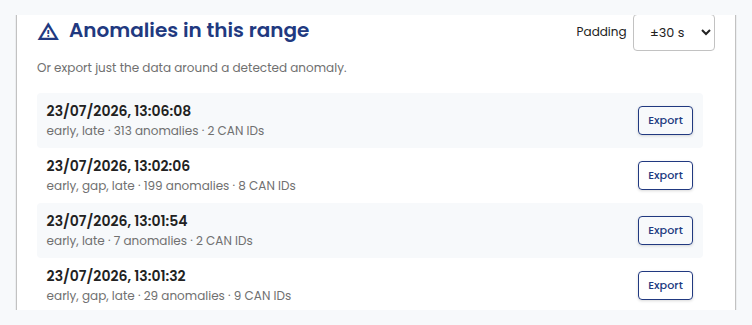
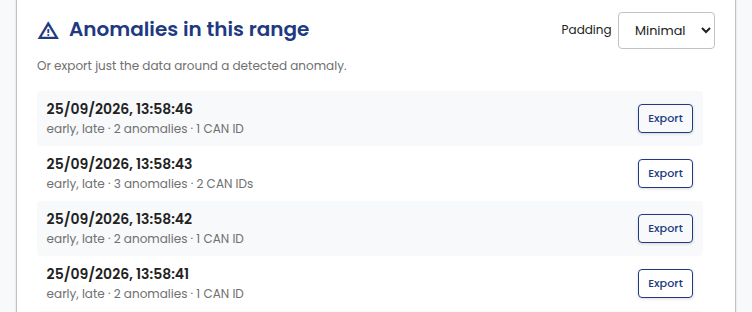
docs(portal): describe the Minimal default for anomaly exports
The anomaly list's Padding list has a new Minimal option, and it is the
default. The export then holds about three seconds of data around the
anomaly. The screenshot shows the new default.

Claude-Session: https://claude.ai/code/session_01KD3DZM4ZHsJgGoEvukU67b

diff --git a/docs/portal/export-log.md b/docs/portal/export-log.md
@@ -33,8 +33,11 @@ When it finishes, the downloaded file name appears below the button:
 
 Detected anomalies in the selected range are listed below the export
 controls, each with its own **Export** button. Use this to export just the
-data around a specific anomaly instead of the whole range. The padding
-before and after the anomaly is configurable.
+data around a specific anomaly instead of the whole range.
+
+By default, the **Padding** list is set to **Minimal**. The export then
+holds about three seconds of data around the anomaly. To include more data
+before and after the anomaly, select ±10 s, ±30 s or ±60 s.
 
 ![Anomalies in this range](../images/portal/export-log/anomalies-list.png)
 
